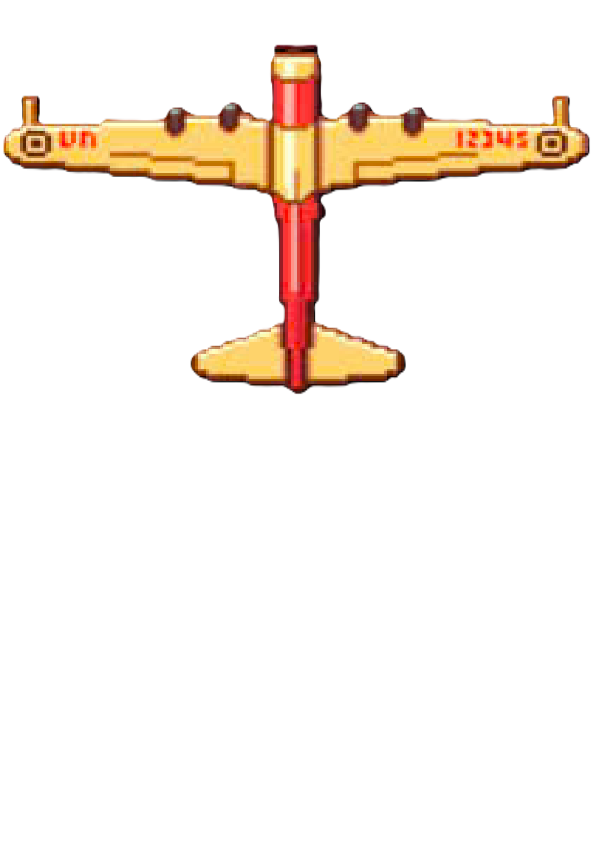
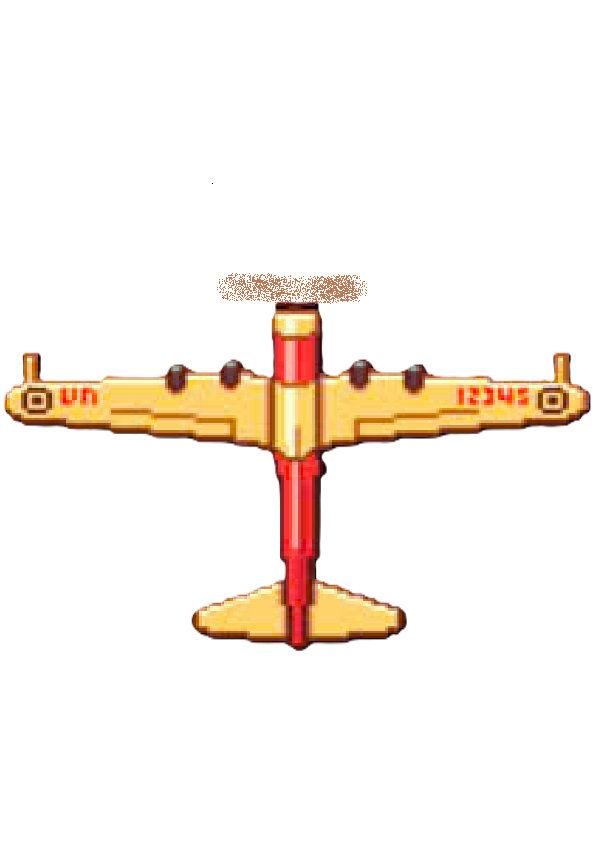
Add files via upload

Changed region(s): [[0.0, 0.0309, 0.9983, 0.772]]

diff --git a/hoclamcotruong.html b/hoclamcotruong.html
@@ -151,8 +151,8 @@ RW_LENGTH: 1600,
 RW_WIDTH: 50,
 RW_START_X: 300, RW_START_Y: 1400,
 
-PLANE_LEN: 25,
-PLANE_WID: 25,
+PLANE_LEN: 80,
+PLANE_WID: 80,
 
 TOP_VIEW_SPAN: 500,
 
